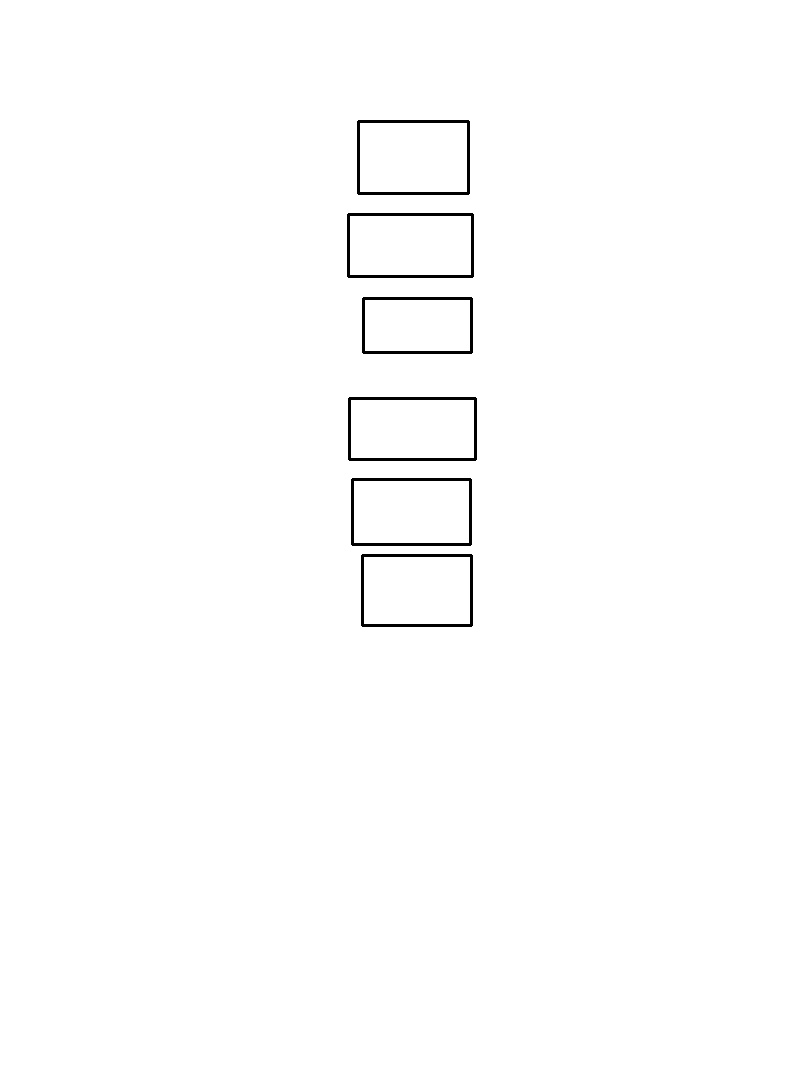
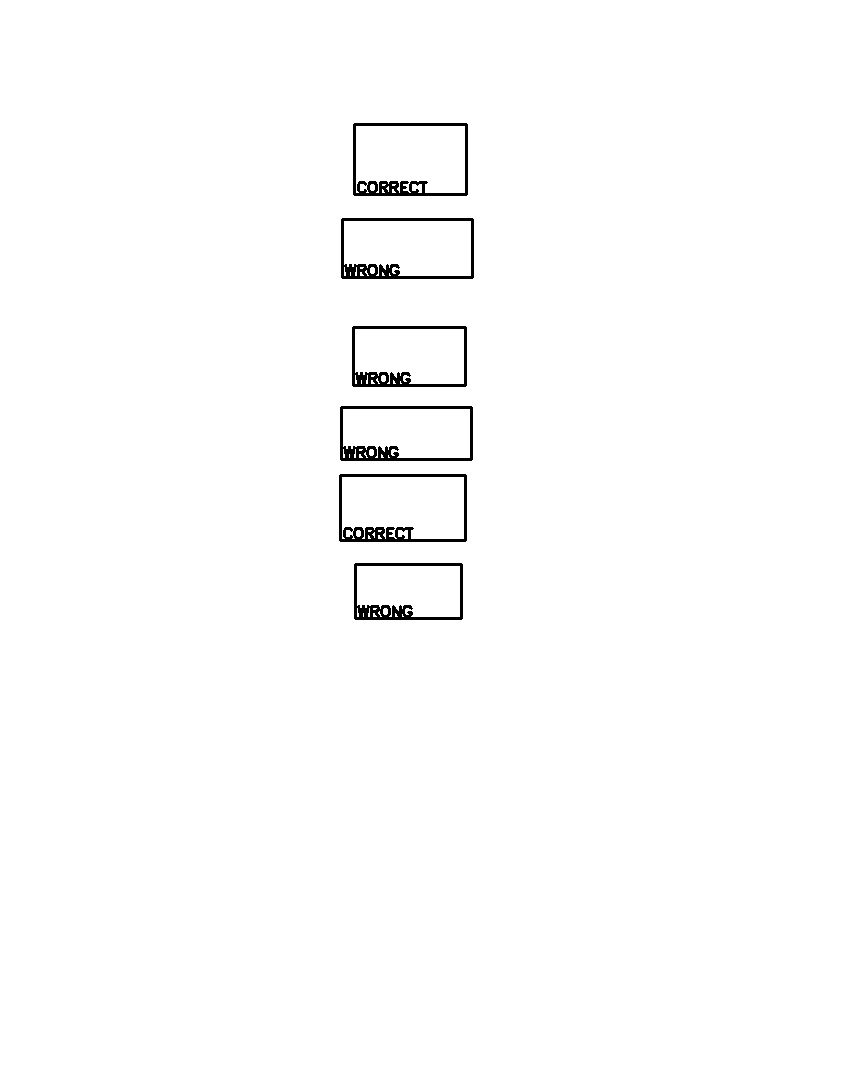
judgement

Changed region(s): [[0.3969, 0.092, 0.6107, 0.5827]]

diff --git a/main.py b/main.py
@@ -17,7 +17,7 @@ def scale_boxes_to_real_size(box, new_height, new_width, old_height=yolo.yolo_he
 
 blank_img, answer_img, sumbissions_img, \
     blank_text_boxes, answer_text_boxes, submissions_text_boxes, \
-    answer_texts, submis_map, submissions_texts, results \
+    answer_texts, submis_maps, submissions_texts, results \
     = grade(blank_dir, answer_dir, submissions_dir)
 
 blank_img_fullsize = cv2.imread(blank_dir)
@@ -28,7 +28,7 @@ for item_dir in os.listdir(submissions_dir):
     img = cv2.imread(submissions_dir + "/" + item_dir )
     submissions_img_fullsize.append(img)
 
-height, width, _ = answer_img_fullsize.shape
+height, width, _ = submissions_img_fullsize[0].shape
 
 
 #%%
@@ -48,6 +48,32 @@ for boxes in boxes_to_print:
 for boxes, submis_img_fullsize in zip(boxes_to_print, submissions_img_fullsize):
     [ draw_box(submis_img_fullsize, box)  for box in boxes]
 
+
+#%%
+# print correct / wrong
+
+font                   = cv2.FONT_HERSHEY_SIMPLEX
+fontScale              = 0.5
+fontColor              = (0,0,0)
+lineType               = 2
+
+for boxes, blank_img, submis_img_fullsize, result, submis_map in zip(boxes_to_print, images_to_print, submissions_img_fullsize, results, submis_maps):
+    for (box,index) in zip(boxes, range(len(boxes))):
+        bottomLeftCornerOfText = (int(box[0])+2,int(box[3])-2)
+        text = 'CORRECT' if result[submis_map[index]] else 'WRONG'
+
+        cv2.putText(submis_img_fullsize,
+            text, bottomLeftCornerOfText, font, fontScale, fontColor, lineType)
+
+        cv2.putText(blank_img,
+            text, bottomLeftCornerOfText, font, fontScale, fontColor, lineType)
+
+# plt.imshow(submissions_img_fullsize[0])
+# plt.show()
+# cv2.imwrite("xx.jpg", submissions_img_fullsize[0])
+# print(boxes_to_print[0][0])
+
+
 #%%
 # write files
 
@@ -63,31 +89,31 @@ for img, index in zip(submissions_img_fullsize,range(len(images_to_print))):
 
 
 
-#%%
 
-font                   = cv2.FONT_HERSHEY_SIMPLEX
-fontScale              = 0.5
-fontColor              = (0,0,0)
-lineType               = 2
 
-for boxes, submis_img_fullsize, result in zip(boxes_to_print, submissions_img_fullsize, results):
-    for box,res in zip(boxes, result):
-        bottomLeftCornerOfText = (int(box[0])+2,int(box[3])-2)
-        cv2.putText(submis_img_fullsize,
-            'CORRECT' if result else 'WRONG', 
-            bottomLeftCornerOfText, 
-            font, 
-            fontScale,
-            fontColor,
-            lineType)
 
-plt.imshow(submissions_img_fullsize[0])
-plt.show()
-cv2.imwrite("xx.jpg", submissions_img_fullsize[0])
-# print(boxes_to_print[0][0])
 
+
+
+
+
+
+
+
+
+
+
+
+
+
+
+
+
+
+    
 # %%
 print(results)
+print(submis_maps[0])
 #%%
 
 

diff --git a/dev.py b/dev.py
@@ -137,15 +137,10 @@ def print_a_answer(grade_result, submission_index, question_index ):
 # %%
 from automatic_grader import *
 x = grade(blank_dir, answer_dir, submissions_dir)
-print_a_answer(x,1,3)
-
-
-
-
-
 
 
 # %%
+print_a_answer(x,1,3)
 
 # %%
 
